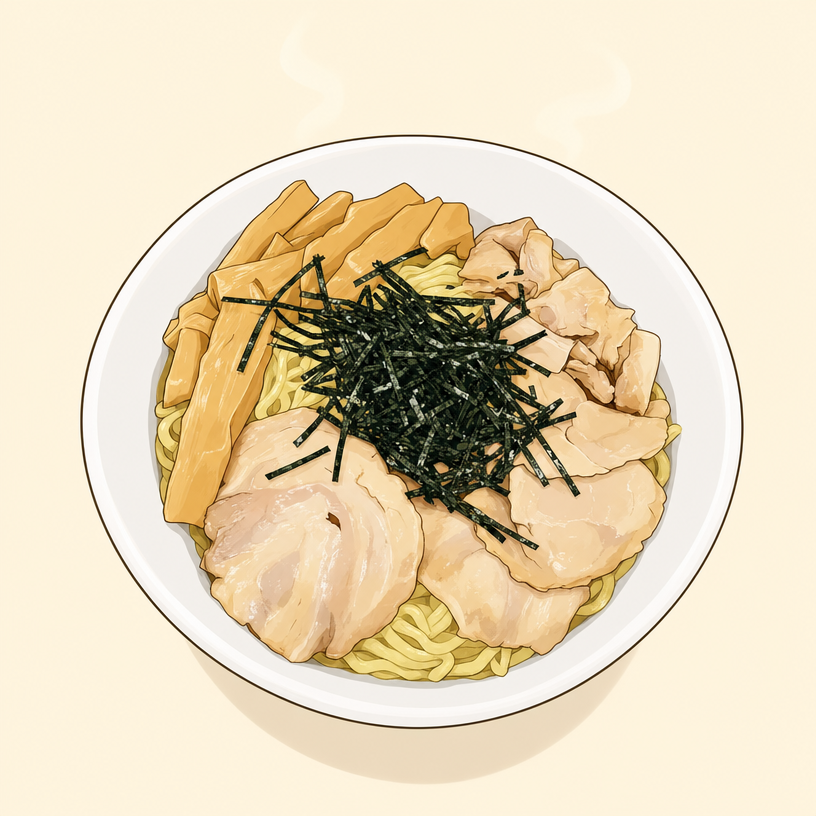
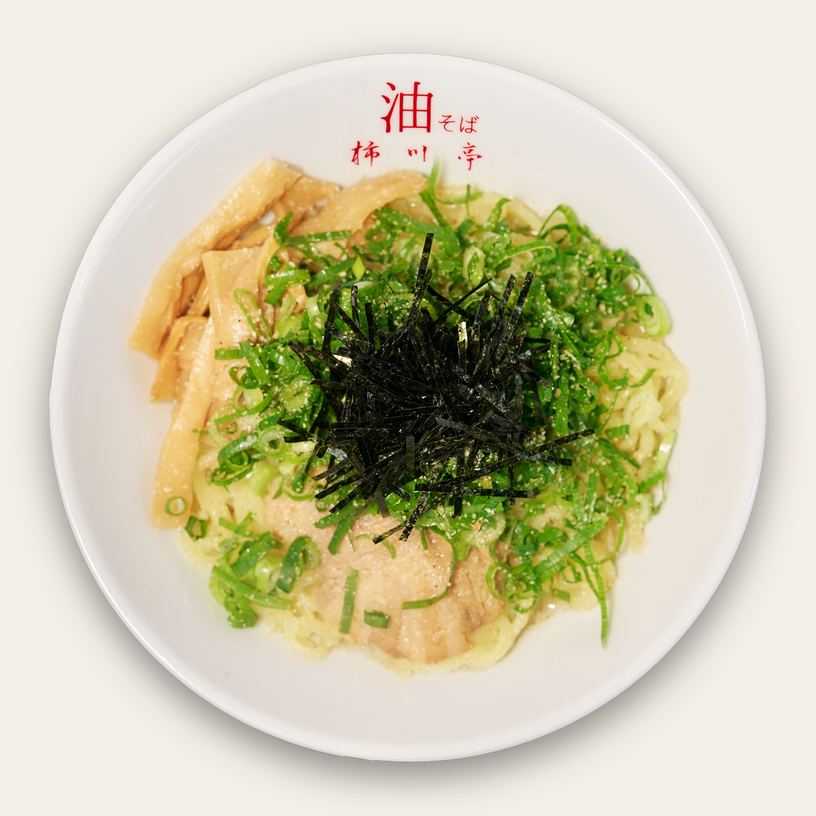
アイコンを実写版（真上・ねぎ／Drive商品写真）に差し替え・apple-touch-icon追加・iOS 1.0.5(13)
Claude-Session: https://claude.ai/code/session_01T6j1opLjn85ZhCAmH6MAKP

diff --git a/index.html b/index.html
@@ -5,6 +5,7 @@
 <meta name="viewport" content="width=device-width, initial-scale=1, maximum-scale=1, user-scalable=no, viewport-fit=cover">
 <title>柿川亭アプリ</title>
 <link rel="icon" href="assets/icon.png">
+<link rel="apple-touch-icon" href="assets/apple-touch-icon.png">
 <script src="config.js"></script>
 <style>
   :root {
